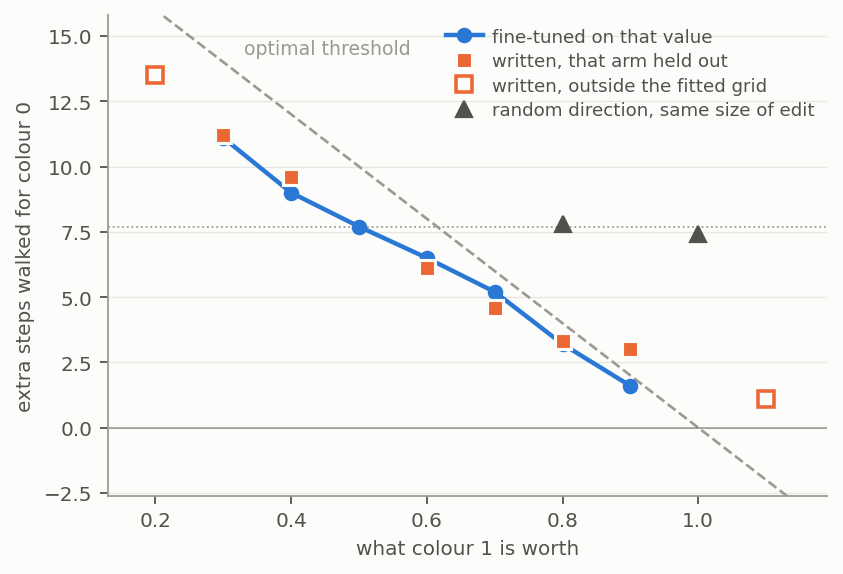
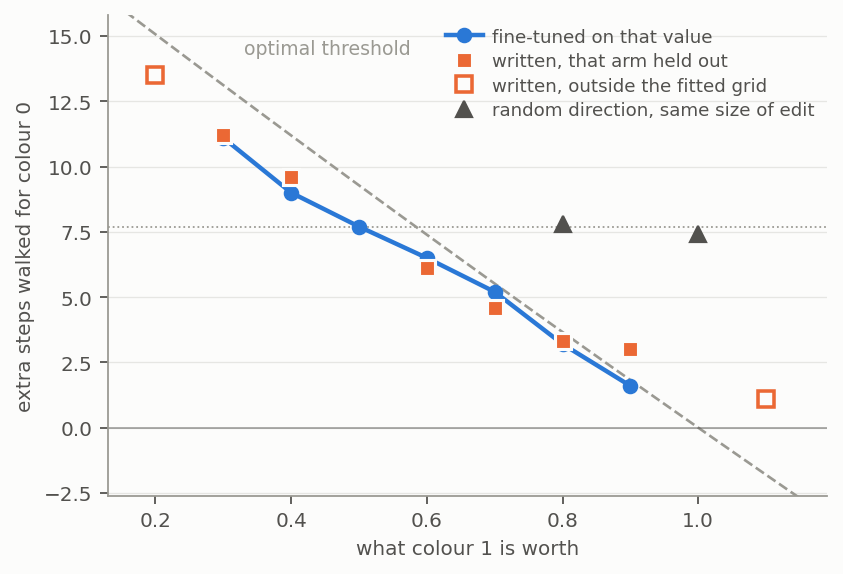
Draw the threshold the agent is actually trained against
The dashed line was (v0 - v1)/penalty, which is the optimum for undiscounted
return. The agent maximises discounted return at gamma=0.995, and setting the two
discounted returns equal gives gamma^D (c + v0) = c + v1 with c = penalty/(1 -
gamma) = 10. Two consequences.

The distance already walked cancels, so the threshold depends only on the two
values -- how far away the objectives are does not enter it, and short episodes do
not bend the line. That is worth knowing independently of the correction.

And the true threshold is logarithmic, running up to 0.9 steps below the straight
line over the plotted range. Small, but enough to move the calibration numbers:
the base agent is at 83% of optimal rather than 77%, seed 5678 at 92% rather than
85%, and the slope ratios at 81% and 83%. The two seeds are less alike on where
they sit than the old numbers implied, and more alike on how they trade.

gamma is read from figures/data/value_axis.json, recorded there from the training
config of the checkpoint every arm was fine-tuned from, so the figure still has no
number typed into it. The 120-step timeout is a further penalty on distant
objectives that this ignores; noted in the text rather than modelled.

diff --git a/figures/make_figures.py b/figures/make_figures.py
@@ -189,8 +189,17 @@ def fig_written_value():
 
     fig, ax = plt.subplots(figsize=(5.8, 3.9))
 
+    # Indifference under discounting. Walking d steps for a reward v is worth
+    # -p(1 - g^d)/(1 - g) + g^d v, so setting the two objectives equal gives
+    # g^D (c + other) = c + v with c = p/(1 - g), and the distance already walked
+    # cancels: the threshold depends on the two values alone, not on how far away
+    # anything is. The undiscounted (other - v)/p is the g -> 1 limit of this and
+    # runs up to 0.9 steps high over the range plotted.
+    gamma = d["discount"]
+    c = penalty / (1 - gamma)
     grid = np.linspace(0.14, 1.18, 100)
-    ax.plot(grid, (other - grid) / penalty, color=MUTED, lw=1.2, ls="--", zorder=1)
+    ax.plot(grid, np.log((c + grid) / (c + other)) / np.log(gamma),
+            color=MUTED, lw=1.2, ls="--", zorder=1)
     ax.annotate("optimal threshold", xy=(0.33, 14.3), color=MUTED, fontsize=8.5)
 
     ax.axhline(base, color=MUTED, lw=0.8, ls=":", zorder=0)

diff --git a/figures/extract_value_axis.py b/figures/extract_value_axis.py
@@ -55,6 +55,10 @@ def main() -> None:
         "base_value": 0.5,
         "step_penalty": 0.05,
         "other_objective": 1.0,
+        # cfg.loss.gamma of the agent every arm was fine-tuned from. The optimal
+        # threshold is what the agent is trained to maximise, which is discounted
+        # return, so the undiscounted (value gap)/penalty overstates it.
+        "discount": 0.995,
         "base_exchange_rate": base,
         "trained": [{"value": v, "steps": s} for v, s in trained],
         "written_heldout": [{"value": v, "trained": t, "written": w} for v, t, w in heldout],

diff --git a/Experiment2.md b/Experiment2.md
@@ -9,16 +9,11 @@ tags: [4yp, experiment]
 
 ## Tldr takeaway
 
-Found a writable, readable one-dimensional utility threshold, not a per-objective 
-value register. Raising either objective's value moves the same weights in
-opposite directions ($\cos = -1.00$), so what the fine-tunes are moving is a threshold 
-on the difference in distances. 
+Found a writable, readable one-dimensional utility threshold, not a per-objective value register. Raising either objective's value moves the same weights in opposite directions ($\cos = -1.00$), so what the fine-tunes are moving is a threshold on the difference in distances.
 
-Also tried to see if weight updates were concentrated. Found higher density in channel 1 and 7
-as well as reccurence cell 0 but restricting to just these updates hurt performance significantly.
+Also tried to see if weight updates were concentrated. Found higher density in channel 1 and 7 as well as reccurence cell 0 but restricting to just these updates hurt performance significantly.
 
-Trained an evenly-spaced three-objective task, which produces one dimension; an unevenly-spaced 
-one produces a second, but it takes only 16% of the variance.
+Trained an evenly-spaced three-objective task, which produces one dimension; an unevenly-spaced one produces a second, but it takes only 16% of the variance.
 
 ## Initial aim / hypotheses
 
@@ -32,26 +27,20 @@ Trained in the maze with the following inputs
 
 ![](figures/fig9_no_value_task.png)
 
-Figure 1: what the agent sees. Four channels passed in walls, the agent, and one per
-objective. In the rendered maze on the left,
-blue is the agent, red is colour 0 at 11 steps away and green is colour 1 at 4.
-In this case colour 0 is worth the walk.
+Figure 1: what the agent sees. Four channels passed in walls, the agent, and one per objective. In the rendered maze on the left, blue is the agent, red is colour 0 at 11 steps away and green is colour 1 at 4. In this case colour 0 is worth the walk.
 
 
-Fine-tune the same agent onto a grid of values for one objective,
-then fit.
+Fine-tune the same agent onto a grid of values for one objective, then fit.
 
 $$\Delta\theta_i \;=\; \mathrm{drift} \;+\; o_i\,\mathrm{axis} \;+\; \varepsilon_i$$
 
-across the grid, where $o_i$ is arm $i$'s offset from the base value and
-$\varepsilon_i$ is whatever is left. Test on an unused grid entry
+across the grid, where $o_i$ is arm $i$'s offset from the base value and $\varepsilon_i$ is whatever is left. Test on an unused grid entry
 
 I ran a second seed of this training an otherwise identical agent and reproing results on it.
 
 I also ran two versions with three objectives.
 
-Three objectives. (1.0, 0.65, 0.3) at 80M steps, then a redesign at
-(1.0, 0.55, 0.4), also 80M. 
+Three objectives. (1.0, 0.65, 0.3) at 80M steps, then a redesign at (1.0, 0.55, 0.4), also 80M.
 
 
 ## Results
@@ -59,10 +48,9 @@ Three objectives. (1.0, 0.65, 0.3) at 80M steps, then a redesign at
 
 ### Weight Changes Observed
  
-Every arm ends up about the same distance from the base:  
-$\lVert\Delta\theta\rVert = 14.7 \pm 0.36$
+Every arm ends up about the same distance from the base: $\lVert\Delta\theta\rVert = 14.7 \pm 0.36$
 
-(including the null arm at 14.4 which did not change behaviour) 
+(including the null arm at 14.4 which did not change behaviour)
 
 Splitting each arm by squared magnitude, as a share of $\lVert\Delta\theta\rVert^2$:
 
@@ -76,15 +64,9 @@ Splitting each arm by squared magnitude, as a share of $\lVert\Delta\theta\rVert
 | +0.4 | 33% | 54% | 37% | −24% |
 | 0.0, null arm | 38% | 0% | 95% | −33% |
 
-Six arms are fitted. The null arm is held out of the fit — it is the drift
-measurement, so letting it into the fit would be circular — and its row is
-therefore out of sample, which is why its $\varepsilon$ swallows almost
-everything.
+Six arms are fitted. The null arm is held out of the fit — it is the drift measurement, so letting it into the fit would be circular — and its row is therefore out of sample, which is why its $\varepsilon$ swallows almost everything.
 
-$\lVert\mathrm{drift}\rVert = 8.9$ and is near-identical across arms;
-$\lVert\mathrm{axis}\rVert = 28.5$ per unit of value, so the axis part of an
-arm at offset $0.2$ is only $5.7$, and it only overtakes everything else at the
-wide end of the grid.
+$\lVert\mathrm{drift}\rVert = 8.9$ and is near-identical across arms; $\lVert\mathrm{axis}\rVert = 28.5$ per unit of value, so the axis part of an arm at offset $0.2$ is only $5.7$, and it only overtakes everything else at the wide end of the grid.
 
 The columns are the four terms of
 
@@ -92,49 +74,26 @@ $$\lVert\Delta\theta_i\rVert^2 \;=\; \lVert\mathrm{drift}\rVert^2
 \;+\; o_i^2\lVert\mathrm{axis}\rVert^2 \;+\; \lVert\varepsilon_i\rVert^2
 \;+\; 2o_i\,(\mathrm{drift}\cdot\mathrm{axis})$$
 
-and they do not sum to 100% because drift and the axis are not orthogonal:
-$\cos(\mathrm{drift}, \mathrm{axis}) = -0.29$. That last term is the cross
-column. It is linear in $o_i$, so it flips sign with the offset and cancels
-across a balanced grid; the fitted axis is unaffected. $\varepsilon$ is
-orthogonal to both to within $\pm 0.02$.
+and they do not sum to 100% because drift and the axis are not orthogonal: $\cos(\mathrm{drift}, \mathrm{axis}) = -0.29$. That last term is the cross column. It is linear in $o_i$, so it flips sign with the offset and cancels across a balanced grid; the fitted axis is unaffected. $\varepsilon$ is orthogonal to both to within $\pm 0.02$.
 
 $\varepsilon$ never becomes small.
 
-Seed 5678's arms ran 750k steps rather than 3M and everything is smaller:
-$\lVert\Delta\theta\rVert \approx 7$, drift $3.9$, axis $16.4$. Shorter fine-tunes are cleaner: split-half
-reliability 0.27–0.29 against 0.14 here, and seed 1234's own 750k arms sit
-between at 0.23 so this is consistent.
+Seed 5678's arms ran 750k steps rather than 3M and everything is smaller: $\lVert\Delta\theta\rVert \approx 7$, drift $3.9$, axis $16.4$. Shorter fine-tunes are cleaner: split-half reliability 0.27–0.29 against 0.14 here, and seed 1234's own 750k arms sit between at 0.23 so this is consistent.
 
 
 ### Writing a value works
 
-Applying the axis to the non finetuned weights produces the desired behaviour,
-at 100% reach throughout, and norm-matched random directions of the same length
-do nothing.
+Applying the axis to the non finetuned weights produces the desired behaviour, at 100% reach throughout, and norm-matched random directions of the same length do nothing.
 
 ![](figures/fig10_written_value.png)
 
-Figure 2: Writing a value into the unedited agent (seed 1234). Each written point comes
-from an axis fitted on the other five arms, so nothing about the arm it predicts
-went into the direction that produces it. The dotted line is the
-unedited agent.
+Figure 2: Writing a value into the unedited agent (seed 1234). Each written point comes from an axis fitted on the other five arms, so nothing about the arm it predicts went into the direction that produces it. The dotted line is the unedited agent.
 
-Both lines sit below the optimum everywhere, which is a property of the base
-agent rather than of the edit. At colour 1's base value of $0.5$ it walks $7.7$
-extra steps for colour 0 where the task pays $10$ — it behaves as though a step
-cost $0.065$ rather than $0.05$, so it gives up on the further objective too
-early. Seed 5678 is the same story at $8.5$ steps, an implied $0.059$. The
-slopes agree closely, $-15.2$ and $-15.6$ extra steps per unit of value against
-the task's $-20$, so the two agents differ in where they sit and not in how they
-trade.
+Both lines sit below the optimum everywhere, which is a property of the base agent rather than of the edit. At colour 1's base value of $0.5$ it walks $7.7$ extra steps for colour 0 where the task pays $10$. It behaves as though a step cost $0.065$ rather than $0.05$, so it gives up on the further objective too early. Seed 5678 is the same story at $8.5$ steps, an implied $0.059$. The slopes agree closely, $-15.2$ and $-15.6$ extra steps per unit of value against the task's $-20$, so the two agents differ in where they sit and not in how they trade.
 
-It fails at $v = 1.1$, where colour 1 is worth more than colour 0 and the agent
-should flip preference outright. It does not. The map is locally linear, not
-globally.
+Our intervention fails at $v = 1.1$, where colour 1 is worth more than colour 0 and the agent should flip preference outright. It does not. The map is locally linear, not globally.
 
-Both held-out writes replicate on seed 5678, less cleanly: mean error 0.77 steps
-against 0.53, and every error the same sign rather than scattered around zero.
-Its axis systematically overshoots, worst at both ends of the grid (sort of what we see on the first seed).
+Both held-out writes replicate on seed 5678, less cleanly: mean error 0.77 steps against 0.53, and every error the same sign rather than scattered around zero. Its axis systematically overshoots, worst at both ends of the grid (sort of what we see on the first seed).
 
 
 ### Weight Changes Concentrated in Specific Channels
@@ -142,23 +101,16 @@ Its axis systematically overshoots, worst at both ends of the grid (sort of what
 **Not reproduced in seed 5678. No clear gap between channels.**
 
 
-The change concentrates in the input-to-hidden convolution of recurrent layer 0,
-and within it in two of the 32 channels: ch07 at 2.29× and ch01 at 2.21× the
-shared fine-tuning component, then a gap down to 1.31 for everything else.
+The change concentrates in the input-to-hidden convolution of recurrent layer 0, and within it in two of the 32 channels: ch07 at 2.29× and ch01 at 2.21× the shared fine-tuning component, then a gap down to 1.31 for everything else.
 
-The colour-0 and colour-1 sweeps are disjoint sets
-of arms and agree on the channel profile at $r = +0.97$, sharing 7 of their top 8
-channels against 2 by chance.
+The colour-0 and colour-1 sweeps are disjoint sets of arms and agree on the channel profile at $r = +0.97$, sharing 7 of their top 8 channels against 2 by chance.
 
 However you can't only write using the weights in those channels. We don't see the threshold changing as we'd like.
 
 
 ### threshold not value store
 
-$\boldsymbol{\cos(\mathrm{axis}_0, \mathrm{axis}_1) = -1.00 \pm 0.03}$, at every channel subset and in both gate
-convolutions, with the arm counts matched on both sides of the comparison.
-Raising colour 0's value and raising colour 1's move the same weights in exactly
-opposite directions.
+$\boldsymbol{\cos(\mathrm{axis}_0, \mathrm{axis}_1) = -1.00 \pm 0.03}$, at every channel subset and in both gate convolutions, with the arm counts matched on both sides of the comparison. Raising colour 0's value and raising colour 1's move the same weights in exactly opposite directions.
  
 
 ### Three objectives: collapses onto a single axis
@@ -172,35 +124,15 @@ opposite directions.
 | variance in 2nd dimension | 3% | **16%** |
 | base agent chose optimal | 87.4% | 92.2% |
 
-(hypothesised explanation) Evenly spaced values make every threshold a rank
-gap times one constant, so a single stored number solves the original task trained for. A short
-fine-tune can only adjust the circuitry that exists (not build a new threshold "axis" in). 
+(hypothesised explanation) Evenly spaced values make every threshold a rank gap times one constant, so a single stored number solves the original task trained for. A short fine-tune can only adjust the circuitry that exists (not build a new threshold "axis" in).
 
-On the redesign the second dimension appears but does not take over. The
-structure is hierarchical: $\mathrm{axis}_1$ lies 93% along the dominant
-direction and $\mathrm{axis}_2$ 81%, with their off-axis parts **opposed** —
-which predicts $\cos(\mathrm{axis}_1, \mathrm{axis}_2) = 0.530$ against
-$0.534$ observed (aligned would give $0.968$).
-The 84/16 split tracks how often each comparison decides an episode: predicted
-ratio 1.59, observed 1.60.
+On the redesign the second dimension appears but does not take over. The structure is hierarchical: $\mathrm{axis}_1$ lies 93% along the dominant direction and $\mathrm{axis}_2$ 81%, with their off-axis parts sitting opposite which predicts $\cos(\mathrm{axis}_1, \mathrm{axis}_2) = 0.530$ against $0.534$ observed (aligned would give $0.968$). The 84/16 split tracks how often each comparison decides an episode: predicted ratio 1.59, observed 1.60.
 
 *That last figure is $n = 1$ and the model was built after seeing the numbers.*
 
 ### Behavioural evidence for the projection account
 
-If the agent has one dial and the fine-tune tasks need two, arms should be
-measurably worse at their own task the further its values sit from an arithmetic
-progression. Controlling for difficulty — how far ahead the best objective is,
-which dominates at $r = +0.85$ — they are:
-
-$$\begin{aligned}
-\text{grid 1:}\quad \text{optimal} &= 80.7 + 22.7\,\text{topgap} - \phantom{0}9.0\,\text{asymmetry},
-  &\text{partial } r &= -0.59\\
-\text{grid 2:}\quad \text{optimal} &= 86.3 + 14.9\,\text{topgap} - 11.5\,\text{asymmetry},
-  &\text{partial } r &= -0.41
-\end{aligned}$$
-
-This supports the above hypothesis.
+If the agent has one dial and the fine-tune tasks need two, arms should be measurably worse at their own task the further its values sit from an arithmetic progression. We observe this
 
 ## Links
 
